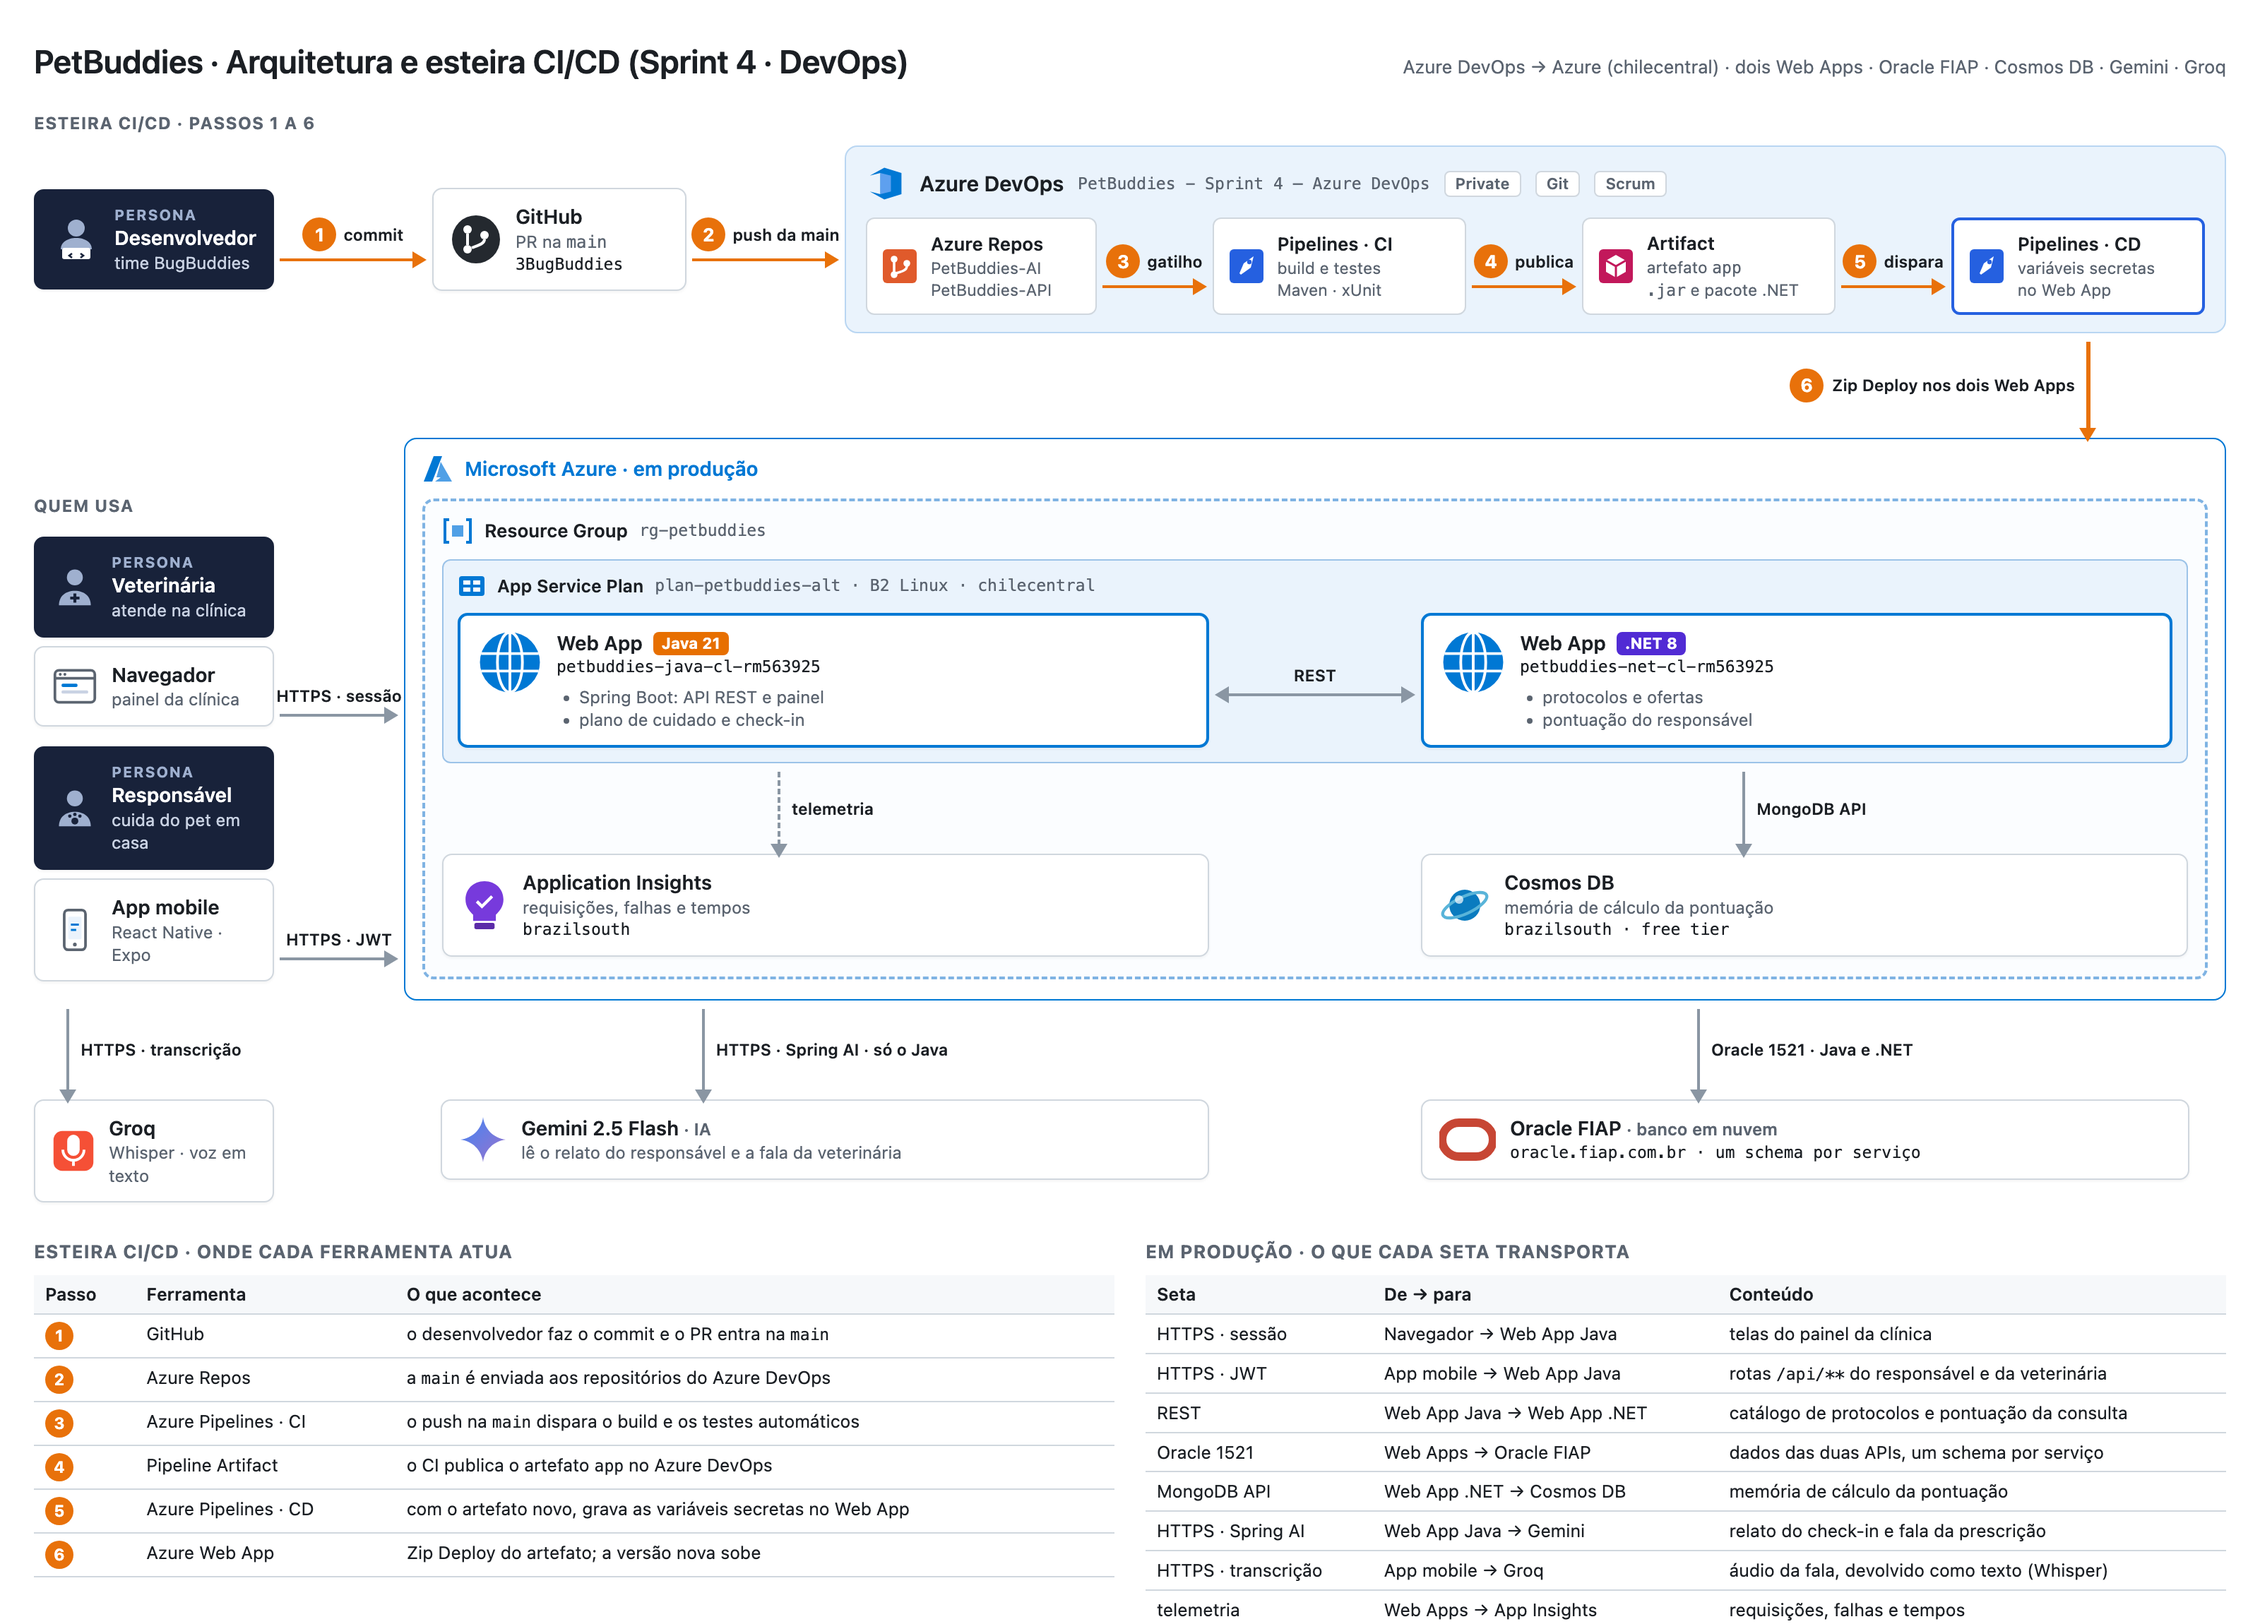
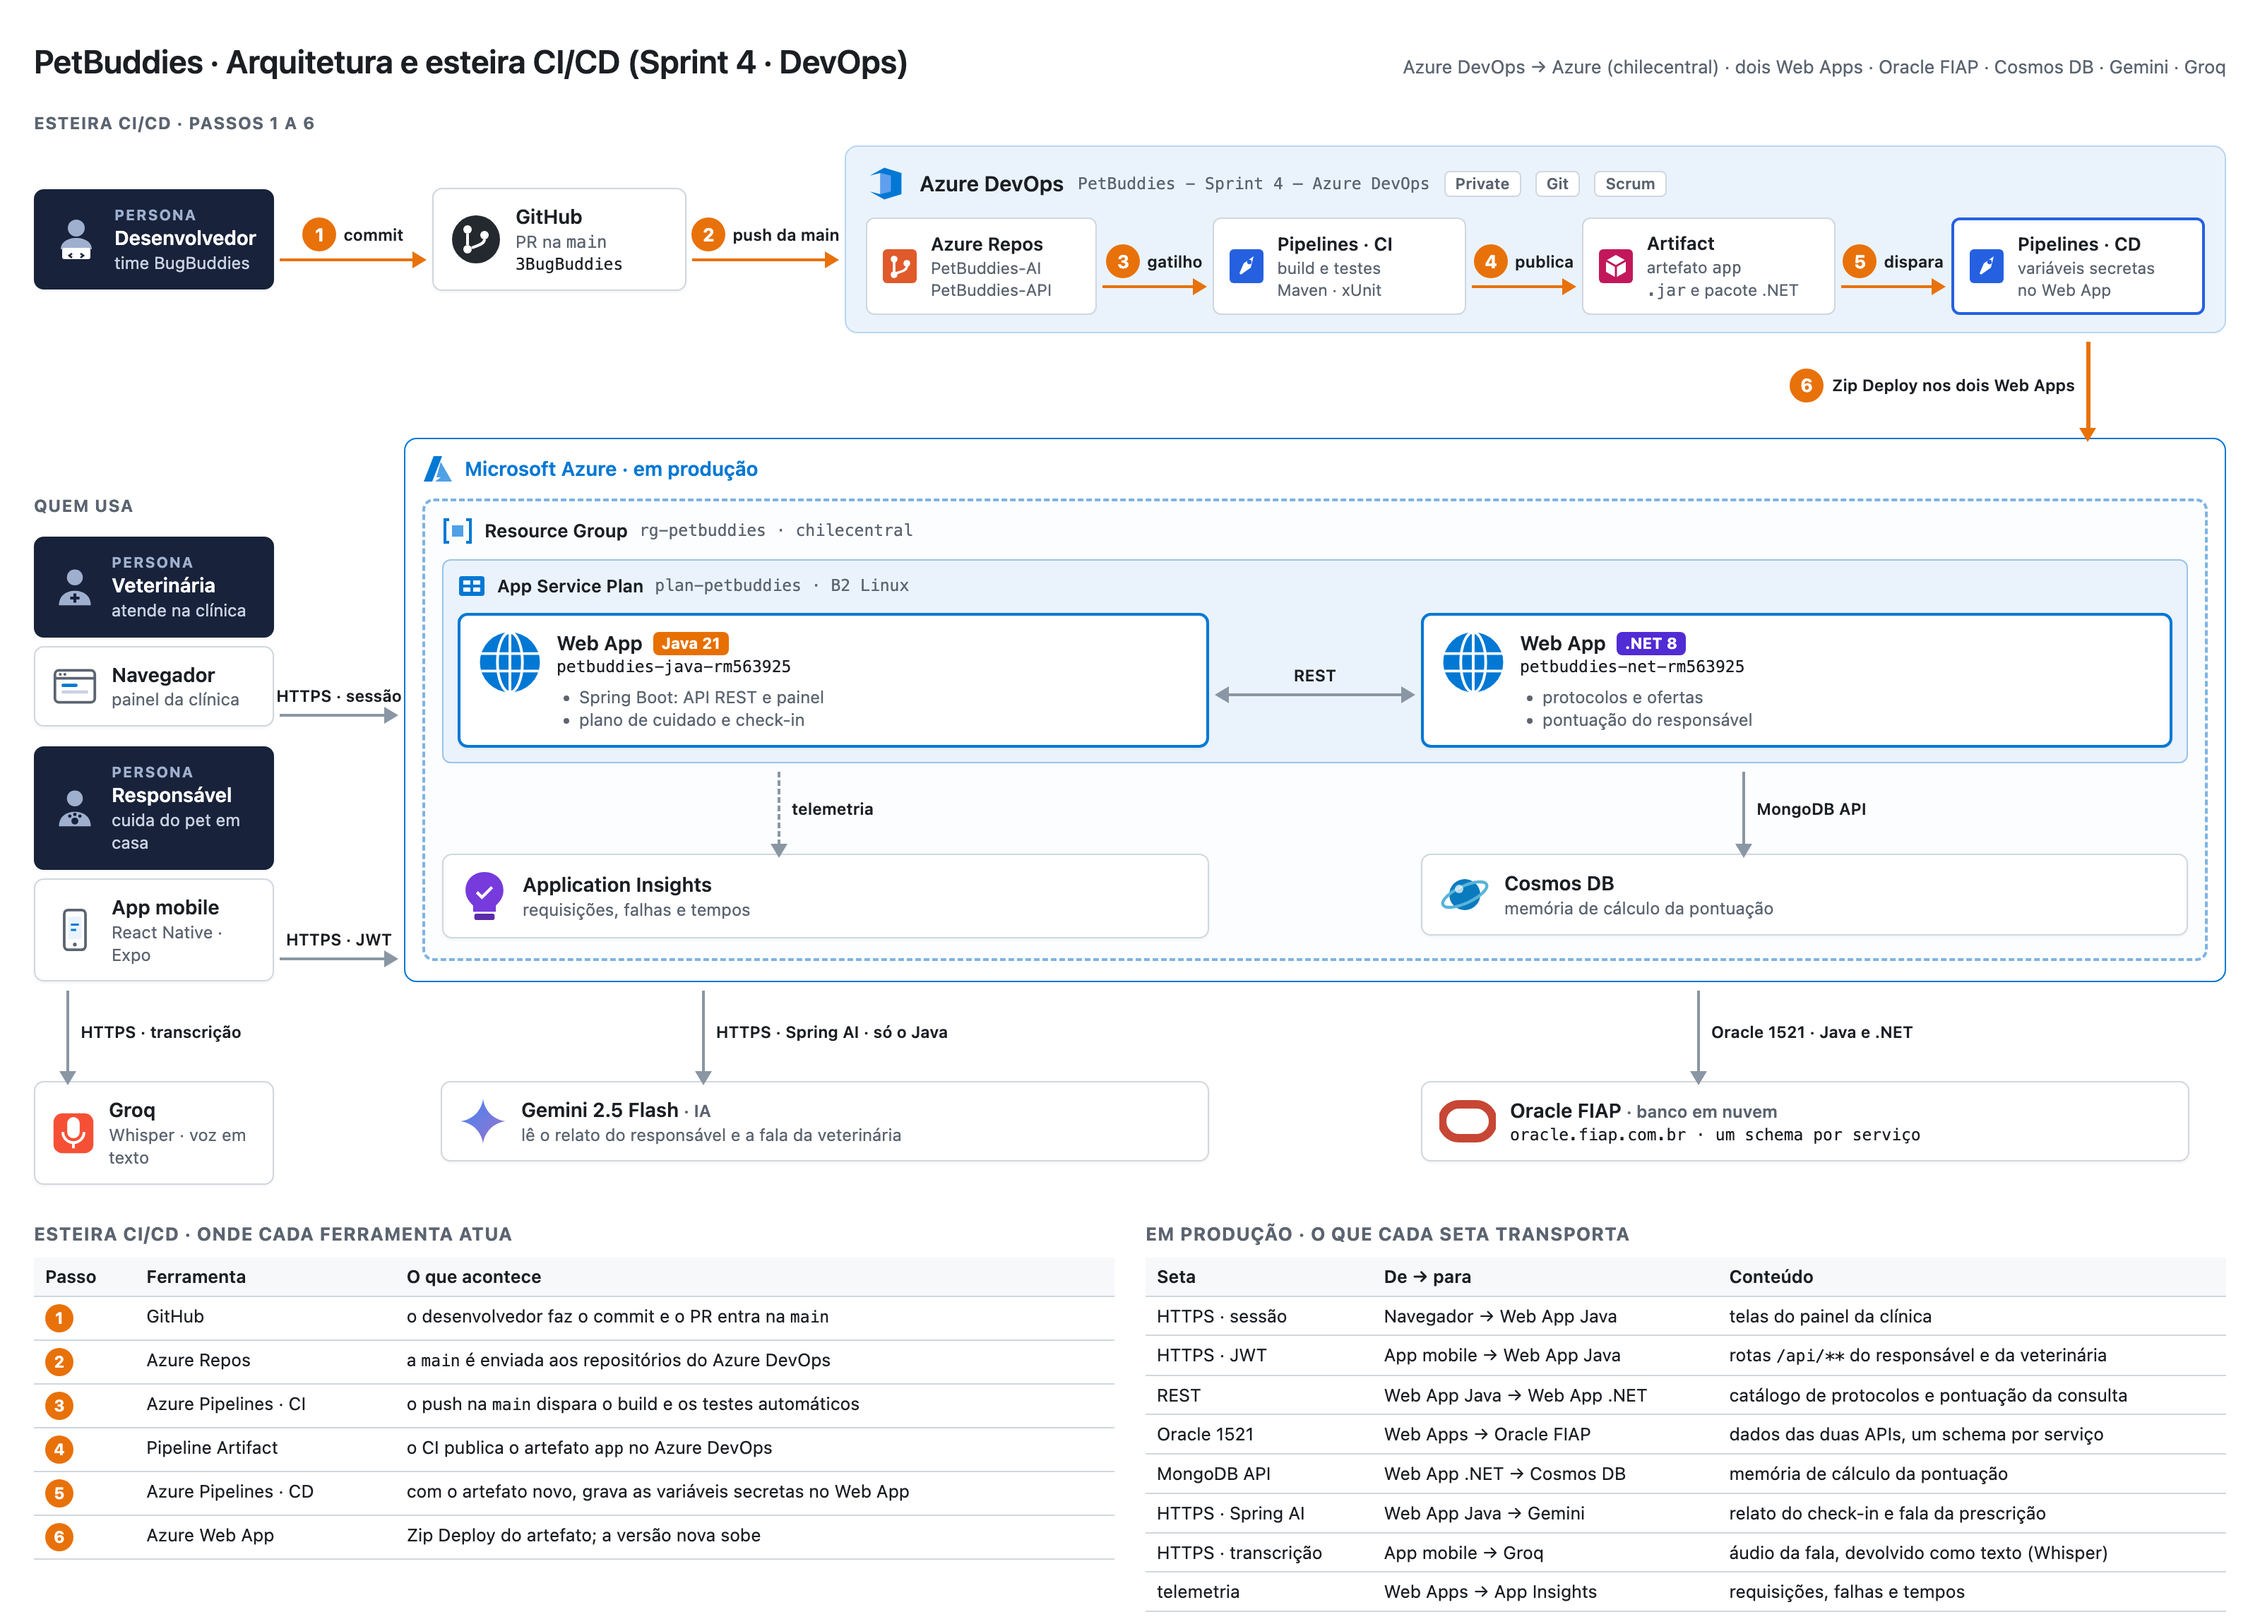
docs(readme): mantém os nomes originais e leva só a região da produção para Chile Central

diff --git a/docs/arquitetura/arquitetura-devops.html b/docs/arquitetura/arquitetura-devops.html
@@ -291,7 +291,7 @@
             <path d="M5 3H2v16h3M17 3h3v16h-3" stroke="#0078D4" stroke-width="2" fill="none"/>
             <rect x="7" y="7" width="8" height="8" fill="#50A0E6"/>
           </svg>
-          <div class="t">Resource Group</div><div class="n">rg-petbuddies</div>
+          <div class="t">Resource Group</div><div class="n">rg-petbuddies · chilecentral</div>
         </div>
         <div class="plan">
           <div class="plan-head">
@@ -300,7 +300,7 @@
               <rect x="4" y="6" width="5" height="3" fill="#fff"/><rect x="11" y="6" width="5" height="3" fill="#fff"/>
               <rect x="4" y="11" width="5" height="3" fill="#fff"/><rect x="11" y="11" width="5" height="3" fill="#fff"/>
             </svg>
-            <div class="t">App Service Plan</div><div class="n">plan-petbuddies-alt · B2 Linux · chilecentral</div>
+            <div class="t">App Service Plan</div><div class="n">plan-petbuddies · B2 Linux</div>
           </div>
           <div class="apps">
             <div class="card webapp">
@@ -311,7 +311,7 @@
               </svg>
               <div>
                 <div class="t">Web App <span class="tag java">Java 21</span></div>
-                <div class="n">petbuddies-java-cl-rm563925</div>
+                <div class="n">petbuddies-java-rm563925</div>
                 <ul>
                   <li>Spring Boot: API REST e painel</li>
                   <li>plano de cuidado e check-in</li>
@@ -327,7 +327,7 @@
               </svg>
               <div>
                 <div class="t">Web App <span class="tag net">.NET 8</span></div>
-                <div class="n">petbuddies-net-cl-rm563925</div>
+                <div class="n">petbuddies-net-rm563925</div>
                 <ul>
                   <li>protocolos e ofertas</li>
                   <li>pontuação do responsável</li>
@@ -350,7 +350,7 @@
               <rect x="11" y="35" width="16" height="5" rx="1.5" fill="#5B2BA8"/>
               <path d="M13 18l4 4 8-8" stroke="#fff" stroke-width="2.4" fill="none"/>
             </svg>
-            <div><div class="t">Application Insights</div><div class="s">requisições, falhas e tempos</div><div class="n">brazilsouth</div></div>
+            <div><div class="t">Application Insights</div><div class="s">requisições, falhas e tempos</div></div>
           </div>
           <div></div>
           <div class="card">
@@ -359,7 +359,7 @@
               <ellipse cx="18" cy="18" rx="17" ry="6" fill="none" stroke="#59B4D9" stroke-width="2.2" transform="rotate(-25 18 18)"/>
               <circle cx="14" cy="14" r="3" fill="#fff" opacity=".7"/>
             </svg>
-            <div><div class="t">Cosmos DB</div><div class="s">memória de cálculo da pontuação</div><div class="n">brazilsouth · free tier</div></div>
+            <div><div class="t">Cosmos DB</div><div class="s">memória de cálculo da pontuação</div></div>
           </div>
         </div>
       </div>

diff --git a/docs/arquitetura/anatomia-pipeline.html b/docs/arquitetura/anatomia-pipeline.html
@@ -198,7 +198,7 @@
         <ellipse cx="26" cy="26" rx="10" ry="24" fill="none" stroke="#fff" stroke-width="2.2"/>
         <path d="M3 19h46M3 33h46M26 2v48" stroke="#fff" stroke-width="2.2"/>
       </svg>
-      <div><div class="t">Azure Web App</div><div class="n">petbuddies-java-cl-rm563925</div><div class="s">Java 21 · chilecentral</div></div>
+      <div><div class="t">Azure Web App</div><div class="n">petbuddies-java-rm563925</div><div class="s">Java 21 · brazilsouth</div></div>
     </div>
   </div>
 

diff --git a/README.md b/README.md
@@ -12,9 +12,9 @@ são feitos pelo [`azure-pipelines.yml`](azure-pipelines.yml), que dispara a cad
 |---------|-----|
 | Repositório GitHub | https://github.com/3BugBuddies/PetBuddies-AI |
 | Azure DevOps (Boards, Repos, Pipelines) | [PetBuddies - Sprint 4 – Azure DevOps](https://dev.azure.com/RM565834/PetBuddies%20-%20Sprint%204%20%E2%80%93%20Azure%20DevOps) |
-| Aplicação (Azure Web App) | https://petbuddies-java-cl-rm563925.azurewebsites.net |
-| Swagger UI | https://petbuddies-java-cl-rm563925.azurewebsites.net/swagger-ui.html |
-| Saúde | https://petbuddies-java-cl-rm563925.azurewebsites.net/actuator/health |
+| Aplicação (Azure Web App) | https://petbuddies-java-rm563925.azurewebsites.net |
+| Swagger UI | https://petbuddies-java-rm563925.azurewebsites.net/swagger-ui.html |
+| Saúde | https://petbuddies-java-rm563925.azurewebsites.net/actuator/health |
 | Vídeo | a preencher |
 | Serviço .NET (PetBuddies-API) | https://github.com/3BugBuddies/PetBuddies-API |
 
@@ -65,7 +65,7 @@ conduta que a veterinária deixou assinada.
 | IA | Spring AI com Gemini 2.5 Flash (Java); Groq Whisper para a transcrição de voz (app mobile) |
 | Serviço parceiro | `PetBuddies-API` em .NET 8, num segundo Web App |
 | Banco | Oracle da FIAP (as duas APIs) e Cosmos DB com a API do MongoDB (pontuação do .NET) |
-| Nuvem | Azure Web App Linux e App Service Plan B2 em chilecentral; Application Insights e Cosmos DB em brazilsouth |
+| Nuvem | Azure Web App Linux, App Service Plan B2, Application Insights, região chilecentral |
 | DevOps | Azure DevOps: Boards (Scrum), Azure Repos, Azure Pipelines em YAML, Pipeline Artifacts |
 | Testes | JUnit 5 com Maven no Java; xUnit com `dotnet test` no .NET |
 | Clientes | navegador (painel da clínica) e app mobile em React Native com Expo |
@@ -126,7 +126,7 @@ Cada task da execução, com o tempo dela: o Maven compila e roda os testes no C
 Os resultados dos testes estão na aba **Tests** da execução (ver a [seção 7](#7-testes)), e o artefato `app` está na aba
 **Artifacts**.
 
-A pipeline `petbuddies-net` do repositório `PetBuddies-API` tem o mesmo desenho, com `dotnet test` no CI e o Zip Deploy no Web App `petbuddies-net-cl-rm563925`.
+A pipeline `petbuddies-net` do repositório `PetBuddies-API` tem o mesmo desenho, com `dotnet test` no CI e o Zip Deploy no Web App `petbuddies-net-rm563925`.
 
 ### Variáveis da pipeline
 
@@ -134,7 +134,7 @@ Cadastradas em Pipelines → Edit → Variables. O CD grava cada uma como config
 
 | Variável | Secreta | Conteúdo |
 |----------|:-------:|----------|
-| `NOME_WEBAPP` | não | nome do Web App de destino (`petbuddies-java-cl-rm563925`) |
+| `NOME_WEBAPP` | não | nome do Web App de destino (`petbuddies-java-rm563925`) |
 | `ORACLE_URL` | não | JDBC do Oracle da FIAP |
 | `ORACLE_USER` | sim | usuário do Oracle |
 | `ORACLE_PASSWORD` | sim | senha do Oracle |
@@ -149,8 +149,7 @@ Cadastradas em Pipelines → Edit → Variables. O CD grava cada uma como config
 Script: [`infra/infra-app.sh`](infra/infra-app.sh), para o lado Java. O Web App do .NET e o Cosmos DB são criados pelo
 repositório `PetBuddies-API` e usam o mesmo resource group e o mesmo plano.
 
-O plano `plan-petbuddies-alt` (B2 Linux) e os dois Web Apps rodam em Chile Central. O Cosmos DB e os Application
-Insights ficam em Brazil South, no mesmo resource group. Ver a [seção 10](#10-incidente-na-azure-e-migração-para-chile-central-04112026).
+O script cria o plano em B2, na região Chile Central.
 
 <details>
 <summary>Como recriar o ambiente do zero</summary>
@@ -195,7 +194,7 @@ connection e do environment `petbuddies-java`, se o Azure DevOps pedir.
 
 **7. Acessar o app**
 
-https://petbuddies-java-cl-rm563925.azurewebsites.net
+https://petbuddies-java-rm563925.azurewebsites.net
 
 Na primeira subida, o Flyway cria as tabelas no Oracle e semeia os dados de demonstração. `GET /actuator/health`
 responde `UP` quando o banco está no ar.
@@ -225,7 +224,7 @@ os mesmos testes no `clean package` e publica o resultado na aba **Tests**, com 
 
 ## 8. CRUD do Responsável
 
-Base URL: `https://petbuddies-java-cl-rm563925.azurewebsites.net`. Autenticação: `POST /api/auth/login` devolve o token;
+Base URL: `https://petbuddies-java-rm563925.azurewebsites.net`. Autenticação: `POST /api/auth/login` devolve o token;
 as demais rotas usam `Authorization: Bearer <token>`. O mesmo CRUD está no painel, na tela **Responsáveis**.
 
 | Método | Rota | Descrição |
@@ -285,11 +284,8 @@ Os dois usuários são criados pelo seed do Flyway (`V2__seed_demonstracao.sql`)
 Por volta de 20:18 UTC, o Web App do Java em Brazil South deixou de responder. A Azure abriu o incidente **MZTM-6L0**,
 que afeta o App Service em Brazil South desde 20:30 UTC.
 
-Criamos em Chile Central um plano novo, `plan-petbuddies-alt` (B2 Linux), e os Web Apps `petbuddies-java-cl-rm563925`
-e `petbuddies-net-cl-rm563925`, no mesmo resource group e no mesmo Oracle. Nas pipelines, trocamos `NOME_WEBAPP` (Java e
-.NET), `PETNETAPI_URL` (Java) e `MOTOR_API_URL` (.NET). Os builds 22 e 23 republicaram as duas aplicações no Chile.
-
-O Cosmos DB e os Application Insights continuaram em Brazil South. O incidente atinge só o App Service, e a assinatura
-tem uma única conta gratuita do Cosmos DB. A migração foi só do compute.
+O resource group `rg-petbuddies` foi recriado inteiro em Chile Central pelos scripts de infra dos dois repositórios
+(`infra/infra-app.sh`), com os mesmos nomes de antes: plano, Web Apps, Application Insights e Cosmos DB. As pipelines
+republicaram as duas aplicações, e as URLs de produção não mudaram.
 
 <img src="assets/prints/incidente-azure.png" alt="Aviso do incidente MZTM-6L0 da Azure sobre o App Service em Brazil South">
